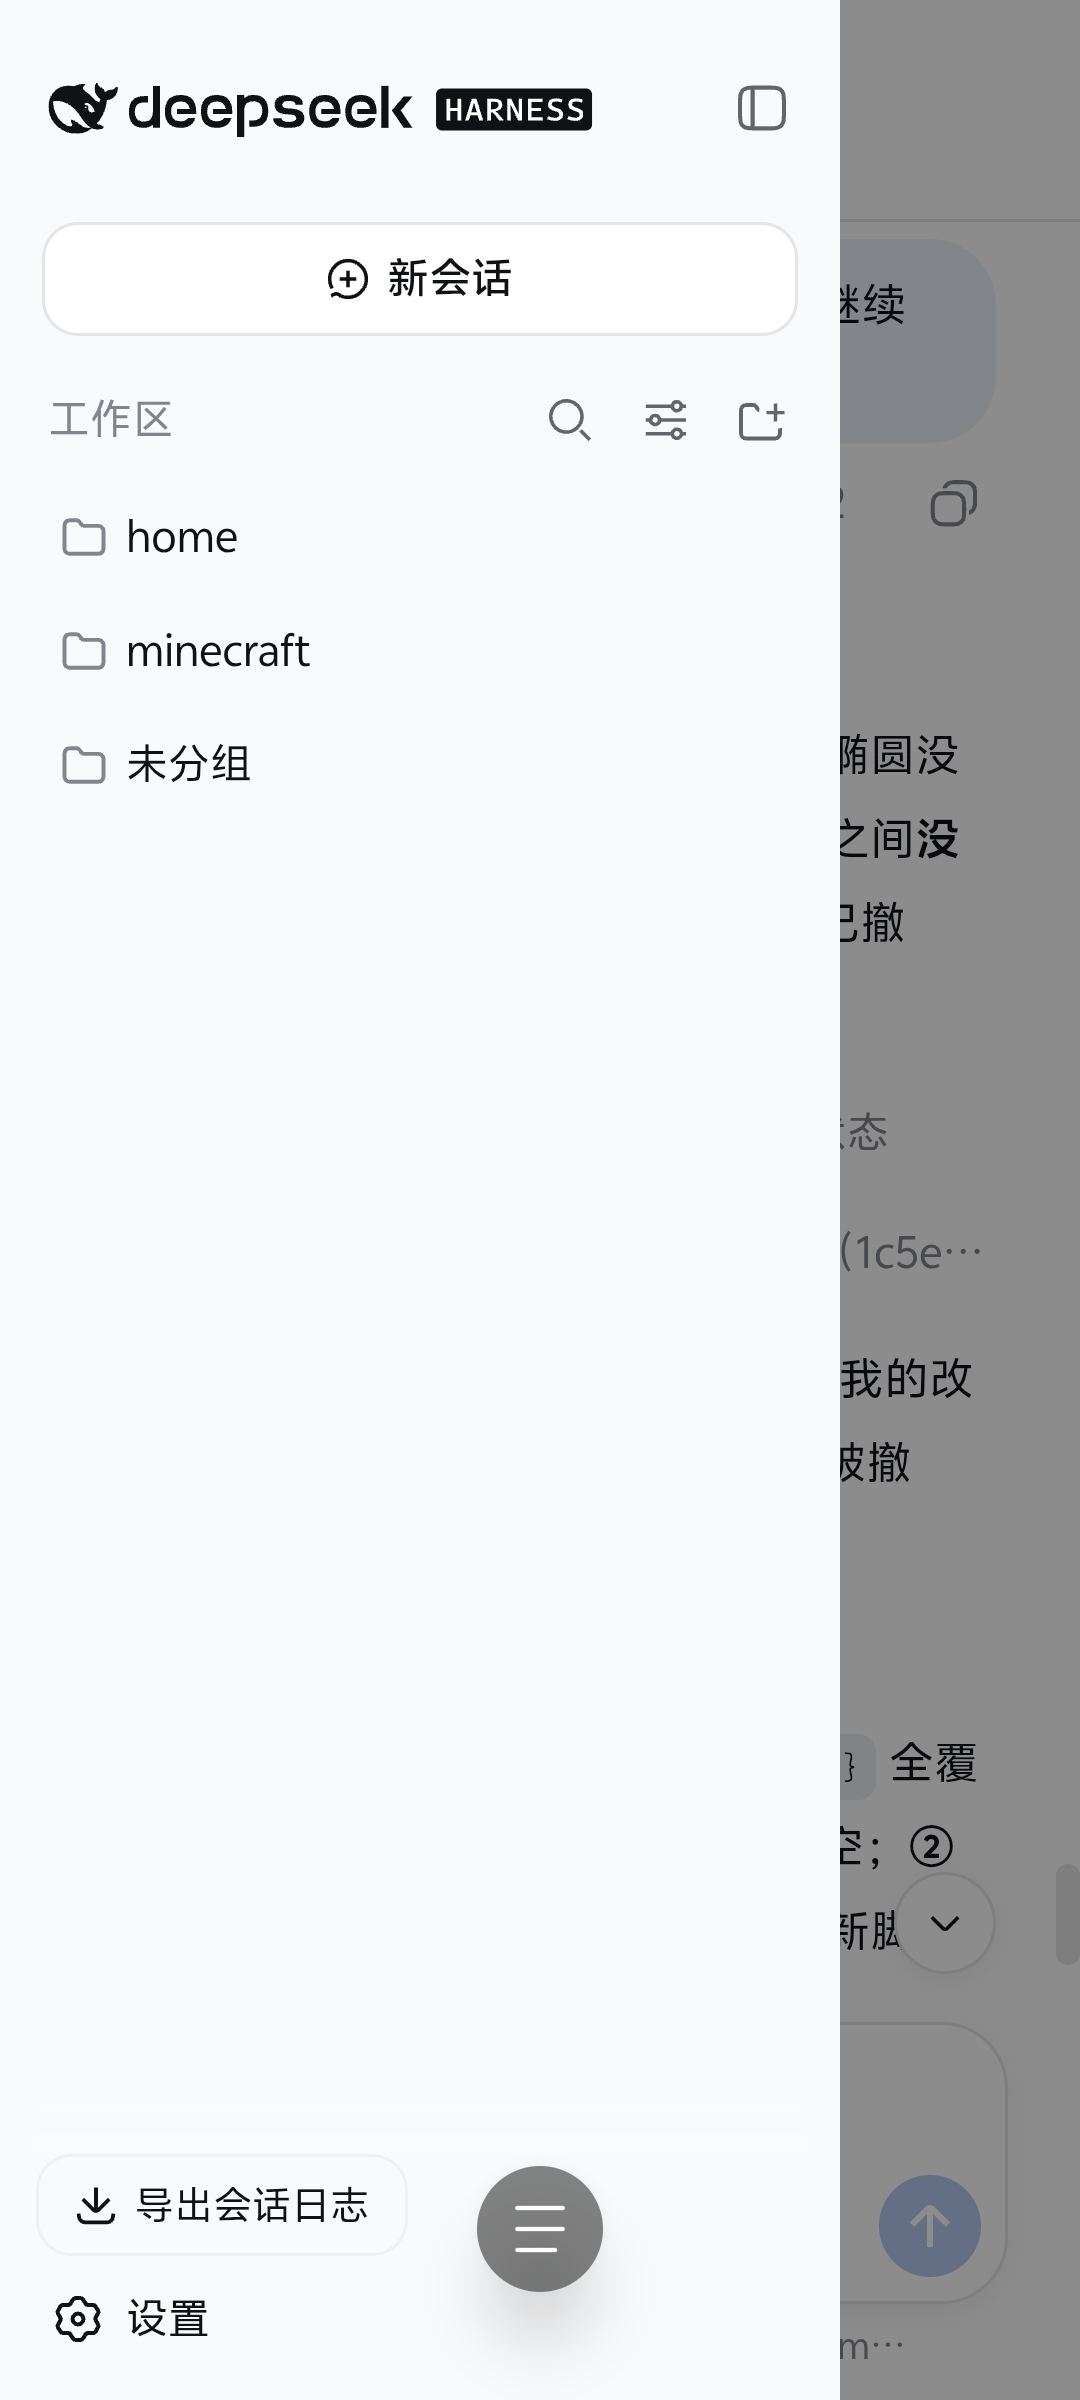
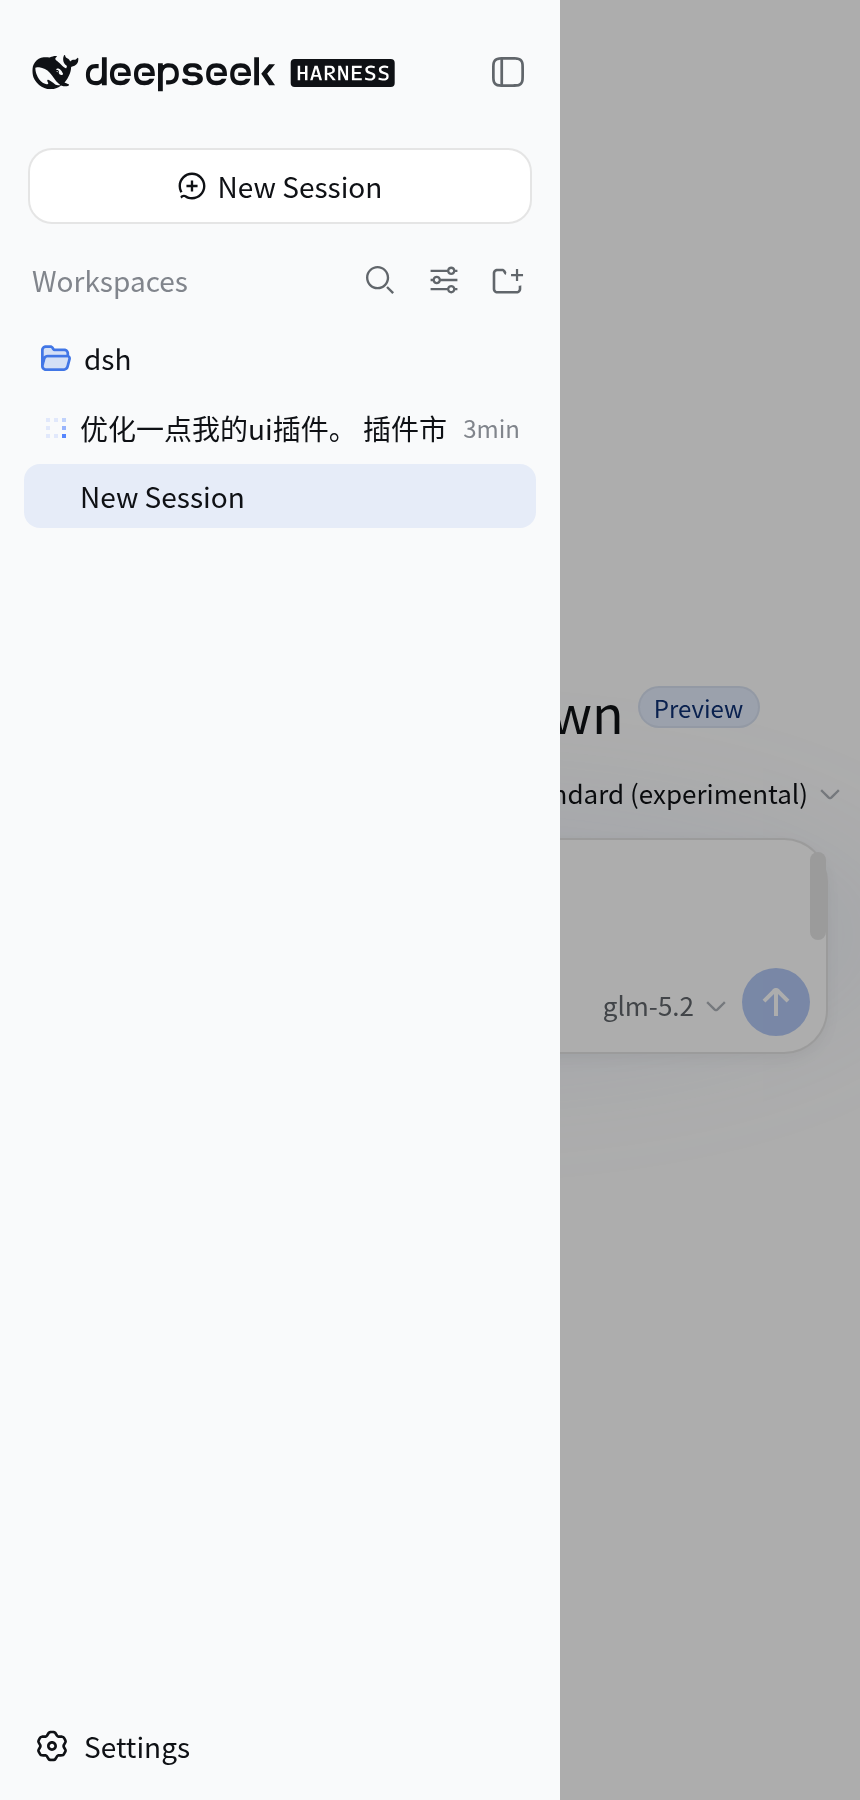
docs: rewrite README with accurate features and real screenshots
- Rewrite 特性/效果 sections to reflect actual plugin feature set
- Replace all assets with current plugin screenshots (hero, drawer, settings, market)
- Add market.png (plugin marketplace page)
- Fix stale VERSION constant in update notice (0.1.61 → 0.1.0)
- Rebuild client bundle

diff --git a/src/client/index.tsx b/src/client/index.tsx
@@ -61,7 +61,7 @@ export function apply(ctx: ClientContext): void {
   // from updated ones. Show a brief toast exactly once per version (tracked
   // in localStorage) so the user can confirm which bundle is running.
   ctx.effect(() => {
-    const VERSION = '0.1.61'
+    const VERSION = '0.1.0'
     const KEY = 'dsh-mobile-shell:last-seen-version'
     try {
       if (localStorage.getItem(KEY) === VERSION) return () => {}

diff --git a/lib/client.js b/lib/client.js
@@ -4927,7 +4927,7 @@ function apply(ctx) {
     // from updated ones. Show a brief toast exactly once per version (tracked
     // in localStorage) so the user can confirm which bundle is running.
     ctx.effect(() => {
-        const VERSION = '0.1.61';
+        const VERSION = '0.1.0';
         const KEY = 'dsh-mobile-shell:last-seen-version';
         try {
             if (localStorage.getItem(KEY) === VERSION)

diff --git a/README.md b/README.md
@@ -1,6 +1,6 @@
 # dsh-mobile-shell
 
-DeepSeek Harness Web UI 移动端外壳:窄屏(< 1024px)隐藏左侧 rail,目录变为 overlay 侧滑抽屉,会话区独占全宽。附带插件市场页(一键安装即热加载)、会话状态面板、设置适配等移动端增强。纯 client 插件,宽屏下与未安装时一致。
+DeepSeek Harness Web 的移动端外壳插件。窄屏（< 1024px）下隐藏左侧 rail、目录变为侧滑抽屉、会话区独占全宽，并附带插件市场、会话状态面板、设置适配、自定义推理参数等移动端增强。纯 client 插件，宽屏下与未安装时完全一致。
 
 [![Release v0.1.0](https://img.shields.io/badge/release-v0.1.0-5B4CF0?style=flat-square)](package.json)
 [![License: MIT](https://img.shields.io/badge/license-MIT-0B7285?style=flat-square)](LICENSE)
@@ -8,30 +8,54 @@ DeepSeek Harness Web UI 移动端外壳:窄屏(< 1024px)隐藏左侧 rail,目录
 
 ## 效果
 
-| 会话主页(全宽) | 目录抽屉 | 设置界面 |
-| --- | --- | --- |
-| ![移动端会话主页](assets/hero.png) | ![目录抽屉](assets/drawer.png) | ![移动端设置界面](assets/settings.png) |
+| 会话主页（全宽） | 目录抽屉 | 设置面板 | 插件市场 |
+| --- | --- | --- | --- |
+| ![会话主页](assets/hero.png) | ![目录抽屉](assets/drawer.png) | ![设置面板](assets/settings.png) | ![插件市场](assets/market.png) |
 
 ## 特性
 
-- **状态栏适配**:保留系统状态栏——viewport 加 `viewport-fit=cover`,页面各表面按 `env(safe-area-inset-top)` 下移,状态栏/刘海永不遮挡内容;`theme-color` 跟随主题背景(深/浅色自动切换),Android 状态栏与页面同色一体;`touch-action: manipulation` 禁用双击放大与 300ms 点击延迟(保留双指缩放);
-- **会话全宽**:网格改为 `1fr 0 0`,目录抽屉 overlay 滑入,宽度贴合侧栏内容(约 280px),关闭后完全移出视口,左侧无阴影残留;
-- **避开摄像头**:不做顶部预留空间,打开目录的浮动按钮放在左缘 y=72px(摄像头带下方);
-- **会话头部重排**:移动端按 [目录按钮] [会话名称] [模式徽标] 排列;Session log 胶囊移到抽屉底部(Settings 旁),复用官方下载逻辑;
-- **设置界面适配**:官方 800px 双栏弹窗改为近全宽 sheet——导航标签两行全可见、条目保持横向、Appearance 一行三选一、高度自适应、淡入动画;导出对话框保持官方居中卡片;
-- **正文排版**:消息文字 16px → 15px,左右留白 32px → 20px,行宽更充分;抽屉列表与输入框文字不受影响;
-- **输入框防重叠**:agent 权限胶囊(盾牌)与模型名不再重叠;
-- **统计栏一行滚动**:轮数/步数/耗时/TTFT/缓存/token 全部收进一条固定高度(28px)的横向滚动条,底部不再被撑高;
-- **会话行操作菜单**:长按或右键会话行,右侧出现三点按钮(重命名 / Fork / 归档),点击时抽屉保持打开,菜单不再随抽屉收回;
-- **抽屉导航判定**:点会话行本体切换会话并收起抽屉;行内按钮(三点菜单等)不触发收起;
-- **文件树 / 预览浮层**:dsh-web-ui 的 Explorer 与 Preview 在手机上变为圆角底部浮层(文件树底部与输入框对齐),每次打开带滑入动画;
-- **一步打开文件**:会话头部右侧新增文件夹按钮,点击直接开/关文件树,无需先开侧栏抽屉。
+### 移动端布局
 
-## 兼容插件
+- **侧滑抽屉**：窄屏隐藏左侧 rail，目录变为 overlay 侧滑抽屉（约 280px），点击会话行切换并自动收起，行内按钮（三点菜单等）不触发收起
+- **全宽会话**：会话区独占视口宽度，消息文字 16px → 15px，左右留白 32px → 20px，行宽更充分
+- **避开摄像头**：打开目录的浮动按钮置于左缘 y≈72px（摄像头带下方），不遮挡内容
+- **会话头部重排**：移动端按 [目录按钮] [会话名称] [模式徽标] 排列
+- **状态栏适配**：viewport 加 `viewport-fit=cover`，各表面按 `env(safe-area-inset-top)` 下移；`theme-color` 跟随主题自动切换；`touch-action: manipulation` 禁用双击放大与 300ms 延迟（保留双指缩放）
 
-- [dsh-web-ui 全家桶](https://www.npmjs.com/package/@linxin666/dsh-web-ui-all)(文件树 / 预览 / 任务看板 / SSH / 宠物 / 会话统计 / 远程配对 / 设置)——**0.1.14**
-- [dshmarket](https://www.npmjs.com/package/dshmarket)(插件市场,搜索框换行全宽)——**1.2.2**
-- [dsh-usage-stats](https://github.com/Ychris12138/dsh-usage-stats)(用量与余额)——**0.1.2**
+### 设置面板
+
+- **近全宽 Sheet**：官方 800px 双栏弹窗改为近全宽底部 sheet，导航标签两行全可见、条目保持横向、Appearance 一行三选一、高度自适应、淡入动画
+- **白色卡片风格**：设置项以白色区块分隔，整体扁平清爽
+- **插件市场入口**：设置面板导航新增「Plugin Market」条目，点击进入内置插件市场页
+
+### 插件市场
+
+- **分类下拉**：按分类筛选插件
+- **排序**：更新时间 / Star 两种排序，切换即时刷新
+- **HH:mm 时间徽标**：更新时间始终显示 HH:mm 格式
+- **GitHub 风格 README 弹窗**：点击插件卡片查看详情，README 以 GitHub 风格渲染
+- **一键安装即热加载**：安装按钮触发 `dsh plugin add`，安装完成后自动热加载（无需重启），并通过 toast 提示结果
+- **EN→ZH 翻译**：README 支持中英语言切换，英文 README 自动翻译为中文（MyMemory 分块翻译 + LLM 兜底）
+
+### 会话状态面板
+
+- **Status 标签页**：在会话头部新增 Status 标签（与 Chat / Trajectory 并列），展示轮数 / 步数 / 耗时 / TTFT / 缓存命中 / token 用量
+- **统计栏一行滚动**：所有指标收进一条固定高度（28px）的横向滚动条，底部不被撑高
+
+### 自定义推理参数
+
+- **Reasoning Effort 配置**：为自定义 provider 的模型添加 reasoning effort 选项（low / medium / high / off）
+- **thinkingFormat 适配**：支持 deepseek 与 openai 两种 thinking 输出格式
+- **reasoningEfforts 自动回填**：模型未声明 `reasoningEfforts` 时自动补全默认值
+
+### 其他增强
+
+- **聊天字号调节**：底部字号滑轨，实时调整消息文字大小并持久化
+- **Enter 换行**：输入框 Enter 换行、Shift+Enter 发送（移动端友好）
+- **附件折叠**：`[附件]` 块折叠为原生 `<details>`，输入区不被撑高
+- **会话行三点菜单**：长按或右键会话行弹出三点菜单（重命名 / Fork / 归档），菜单弹出时抽屉保持打开
+- **更新通知**：插件版本更新后一次性 toast 提示「手机UI插件已更新 v0.1.0，本页已是新界面」
+- **中英双语**：zh / en 两套 locale，UI 文案跟随系统语言
 
 ## 安装
 
@@ -39,9 +63,13 @@ DeepSeek Harness Web UI 移动端外壳:窄屏(< 1024px)隐藏左侧 rail,目录
 dsh plugin --profile web add github:Yui-Little/dsh-mobile-shell
 ```
 
-仓库自带构建产物,一条命令直接安装,无 `allowBuilds` 拦截,安装后即热加载生效(无需重启)。
+仓库自带构建产物，一条命令直接安装，安装后即热加载生效（无需重启）。
 
-本地开发:`dsh plugin --profile web add link:/path/to/dsh-mobile-shell`
+本地开发：
+
+```sh
+dsh plugin --profile web add link:/path/to/dsh-mobile-shell
+```
 
 ## 构建
 
@@ -50,21 +78,22 @@ pnpm install
 pnpm build
 ```
 
-产物 `lib/` 与源码同步入库,改动源码后重新构建再提交。
+产物 `lib/` 与源码同步入库，改动源码后重新构建再提交。
 
 ## 验证
 
-- `pnpm verify` 类型检查;`dsh --profile web --dump-config` 应出现插件层;
-- 移动端(390px):rail 消失、抽屉开合/遮罩/Escape、设置弹窗适配、会话行三点菜单弹出时抽屉保持;
-- 桌面端(≥1024px):与未安装时一致。
+- `pnpm verify` 类型检查；`dsh --profile web --dump-config` 应出现插件层
+- 移动端（390px）：rail 消失、抽屉开合/遮罩、设置 sheet 适配、插件市场加载、Status 标签页渲染
+- 桌面端（≥ 1024px）：与未安装时一致
 
 ## 兼容性
 
-需要 `:has()`(Chromium 105+);`prefers-reduced-motion: reduce` 下自动禁用动画。
+- 需要 `:has()` 选择器（Chromium 105+）
+- `prefers-reduced-motion: reduce` 下自动禁用动画
 
 ## 致谢
 
-- 侧滑抽屉方案源自 [mexiaosqwq/dsh-web-mobile](https://github.com/mexiaosqwq/dsh-web-mobile)(MIT),本插件在其基础上重写扩展,仅保留移动端抽屉与适配部分。
+- 侧滑抽屉方案源自 [mexiaosqwq/dsh-web-mobile](https://github.com/mexiaosqwq/dsh-web-mobile)（MIT），本插件在其基础上重写扩展，仅保留移动端抽屉与适配部分
 
 ## License
 
